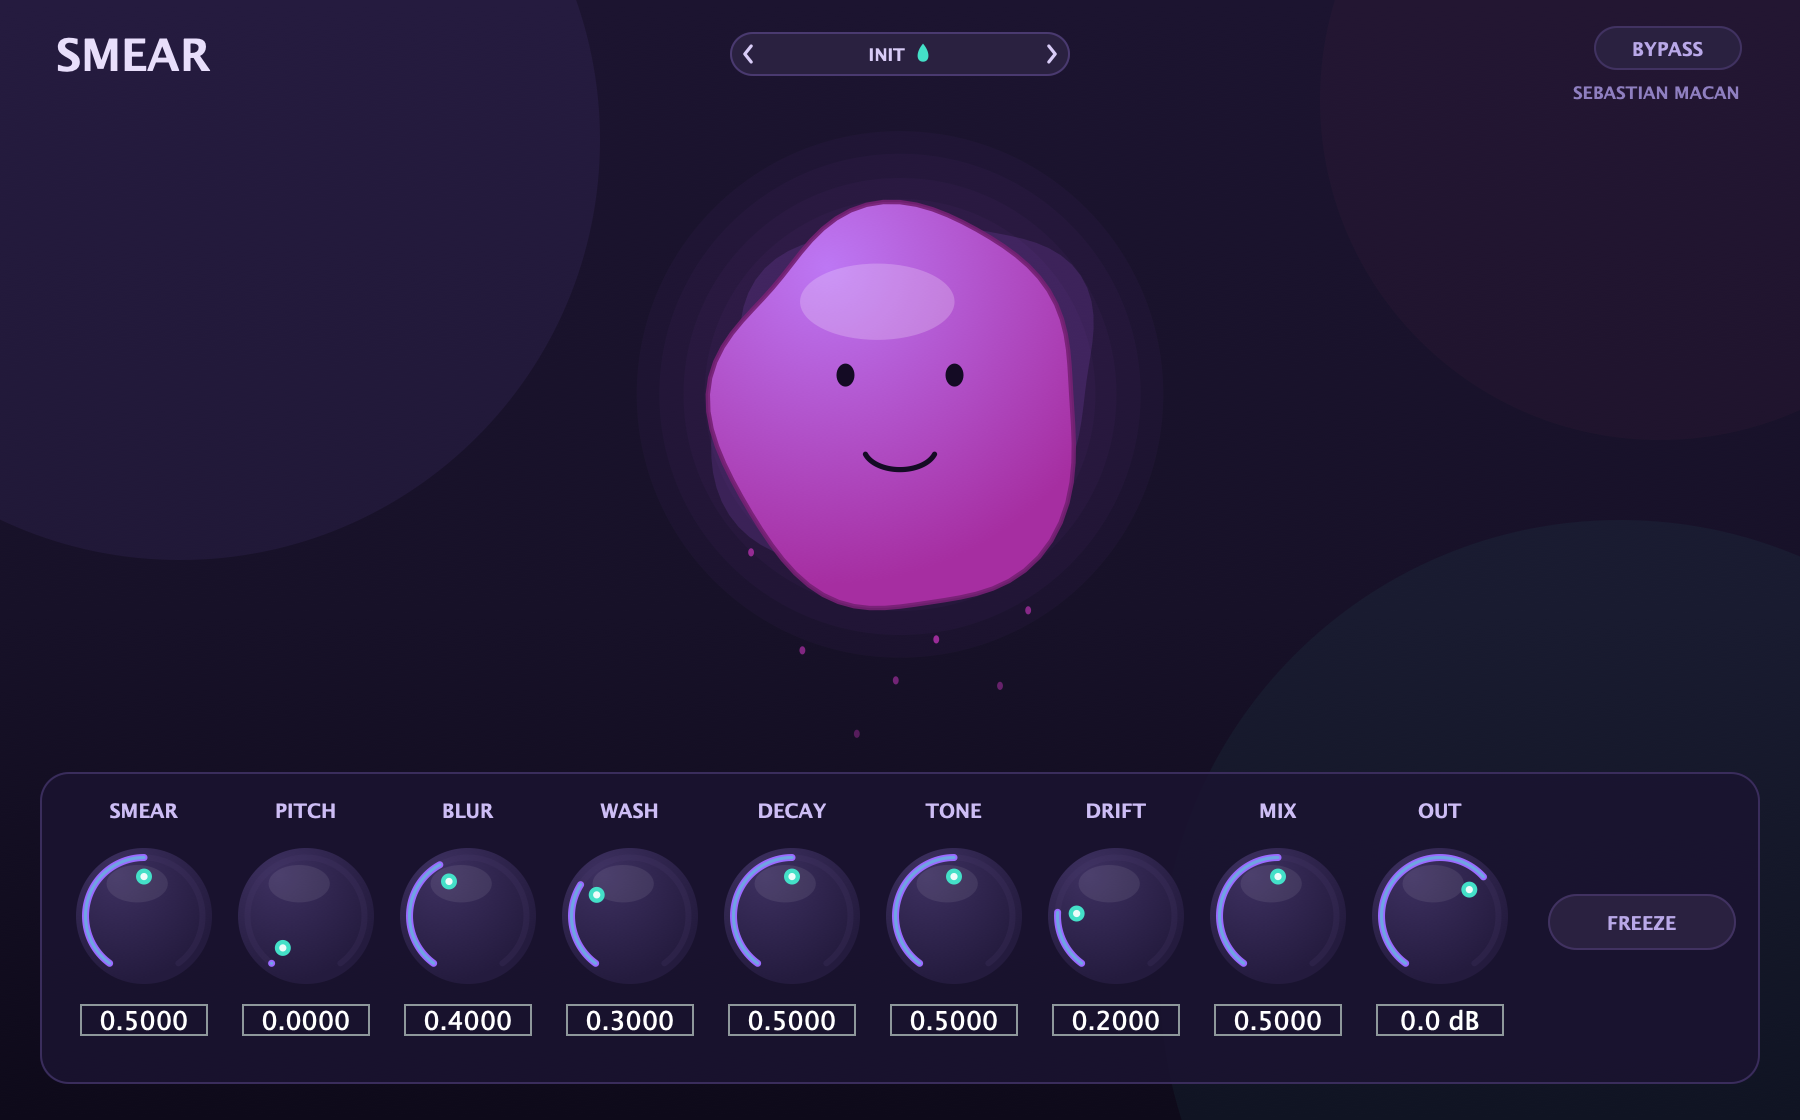
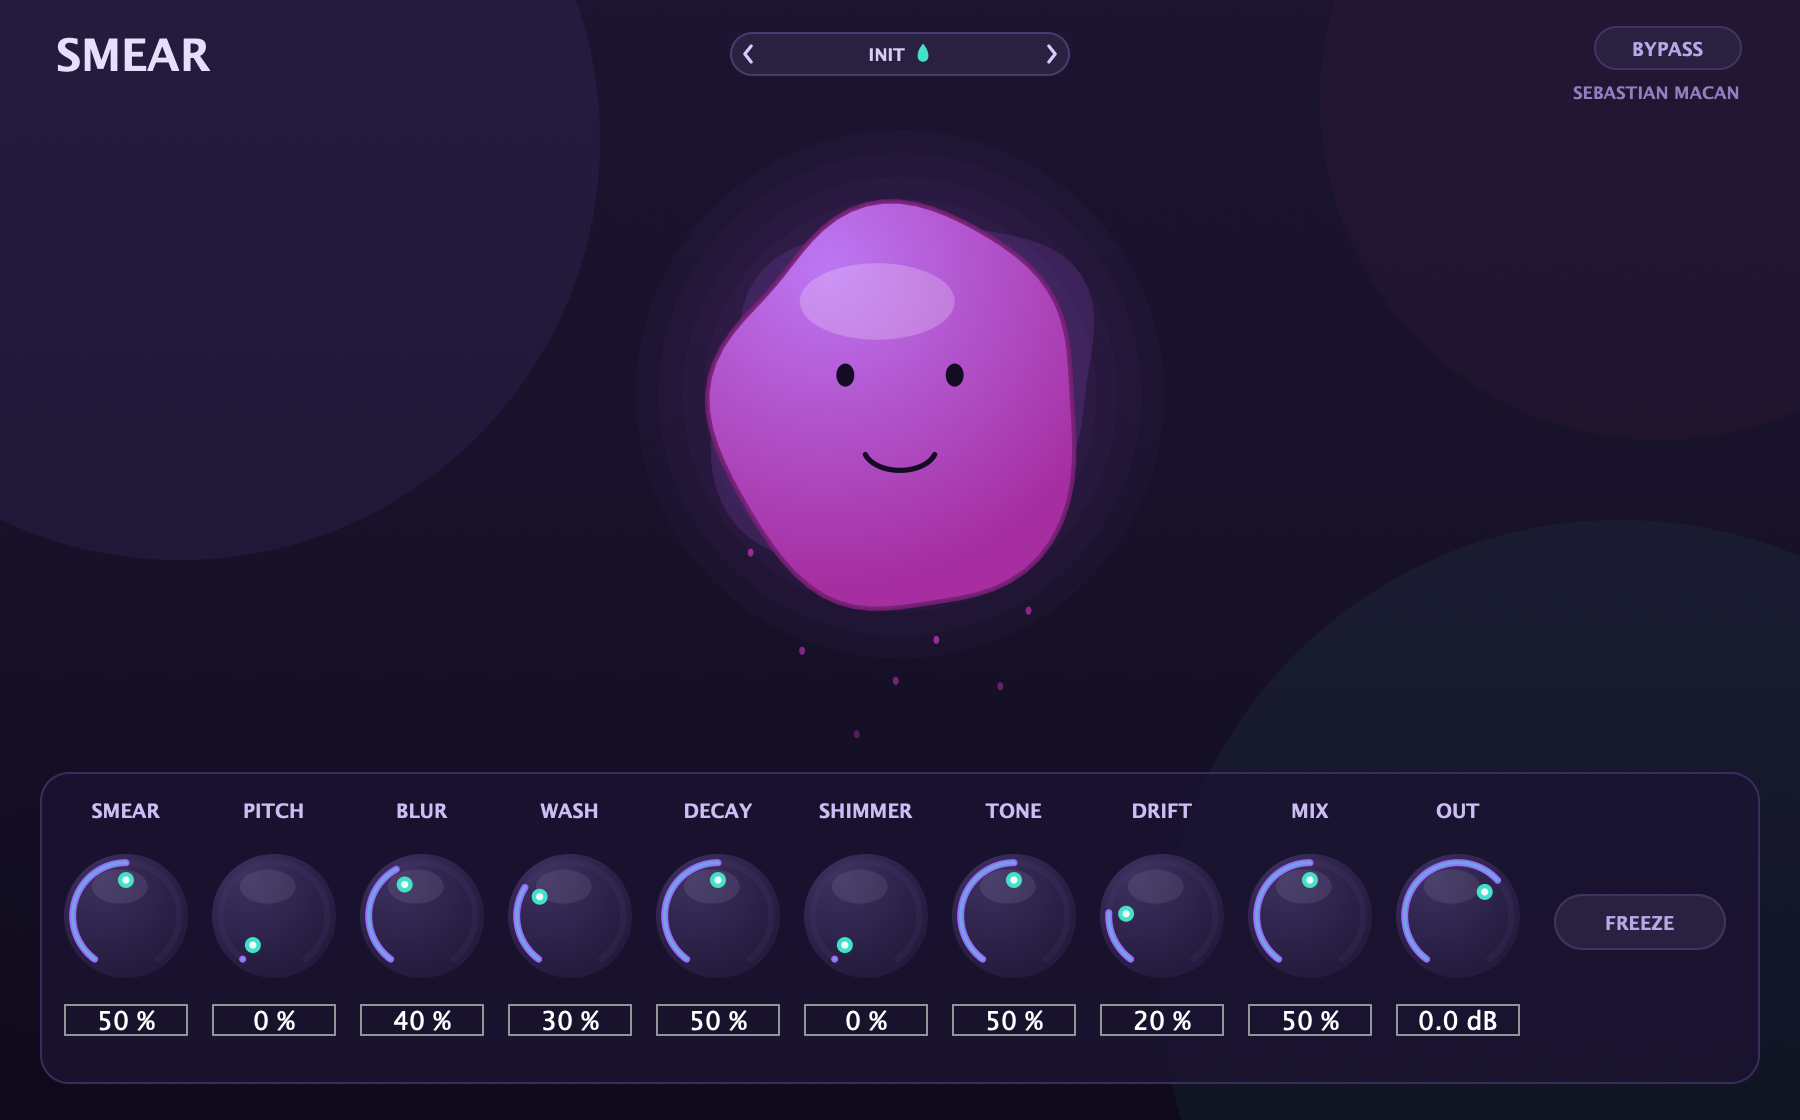
cards: Gremlin duo 3.0.0 + Gremlin XL 1.0.0, Smear 1.2.0 shot

Changed region(s): [[0.0311, 0.7188, 0.84, 0.9375], [0.9022, 0.8125, 0.9333, 0.8438]]

diff --git a/index.html b/index.html
@@ -268,13 +268,23 @@
   <div class="grid">
     <div class="card gremlin">
       <span class="new">CANDIDATE</span>
-      <div class="kind">Three Mischiefs. One Box.</div>
-      <h2 style="background:linear-gradient(135deg,#a6ff3a,#ff3aa6,#8a7aff);-webkit-background-clip:text;background-clip:text;-webkit-text-fill-color:transparent;">GREMLIN</h2>
-      <p class="tag">Chop it, stutter it, smear it.</p>
-      <p class="desc">Chop, Stutter and Smear in one chain, each section switchable, three mascots doing three kinds of damage to whatever you feed it. Twelve combo presets from Gentle Hiccup to Full Meltdown. Candidate build, free for testing.</p>
-      <div class="shot"><img src="img/ui/gremlin.png?v=2.1" alt="Gremlin plugin UI" loading="lazy"></div>
+      <div class="kind">Chop It. Stutter It.</div>
+      <h2 style="background:linear-gradient(135deg,#a6ff3a,#ff3aa6);-webkit-background-clip:text;background-clip:text;-webkit-text-fill-color:transparent;">GREMLIN</h2>
+      <p class="tag">Peanut butter and jelly for EDM, future bass, dubstep.</p>
+      <p class="desc">Chop and Stutter in one chain, each section switchable. Opens on a 1/8 stutter. Eleven presets from Gentle Hiccup to Full Meltdown. Candidate build, free for testing.</p>
+      <div class="shot"><img src="img/ui/gremlin.png?v=3.0" alt="Gremlin plugin UI" loading="lazy"></div>
       <a class="dl" style="background:linear-gradient(135deg,#a6ff3a,#ff3aa6);" href="downloads/Gremlin-v3.0.0-macOS.pkg">Download Gremlin for macOS</a>
-      <div class="meta">v2.1.0 · VST3 + AU effect · candidate</div>
+      <div class="meta">v3.0.0 · VST3 + AU effect · candidate</div>
+    </div>
+    <div class="card gremlin">
+      <span class="new">CANDIDATE</span>
+      <div class="kind">Three Mischiefs. One Box.</div>
+      <h2 style="background:linear-gradient(135deg,#a6ff3a,#ff3aa6,#8a7aff);-webkit-background-clip:text;background-clip:text;-webkit-text-fill-color:transparent;">GREMLIN XL</h2>
+      <p class="tag">Chop it, stutter it, smear it.</p>
+      <p class="desc">Chop, Stutter and Smear in one chain, each section switchable. Smear now runs the new plate reverb with DECAY and SHIMMER. Twelve combo presets from Gentle Hiccup to Full Meltdown. Candidate build, free for testing.</p>
+      <div class="shot"><img src="img/ui/gremlinxl.png?v=1.0" alt="Gremlin XL plugin UI" loading="lazy"></div>
+      <a class="dl" style="background:linear-gradient(135deg,#a6ff3a,#ff3aa6,#8a7aff);" href="downloads/GremlinXL-v1.0.0-macOS.pkg">Download Gremlin XL for macOS</a>
+      <div class="meta">v1.0.0 · VST3 + AU effect · candidate</div>
     </div>
     <div class="card chop">
       <span class="new">CANDIDATE</span>
@@ -304,7 +314,7 @@
       <p class="desc">Granular smear, blur delay and reverb wash in one chain, with a new smooth FDN reverb and a DECAY knob, plus pitch, drift, tone and freeze. Candidate build, free for testing.</p>
       <div class="shot"><img src="img/ui/smear.png?v=1.1" alt="Smear plugin UI" loading="lazy"></div>
       <a class="dl" style="background:linear-gradient(135deg,#8a7aff,#5af0e0);" href="downloads/Smear-v1.2.0-macOS.pkg">Download Smear for macOS</a>
-      <div class="meta">v1.1.0 · VST3 + AU effect · candidate</div>
+      <div class="meta">v1.2.0 · VST3 + AU effect · candidate</div>
     </div>
     <div class="card fireplace">
       <span class="new">NEW</span>
